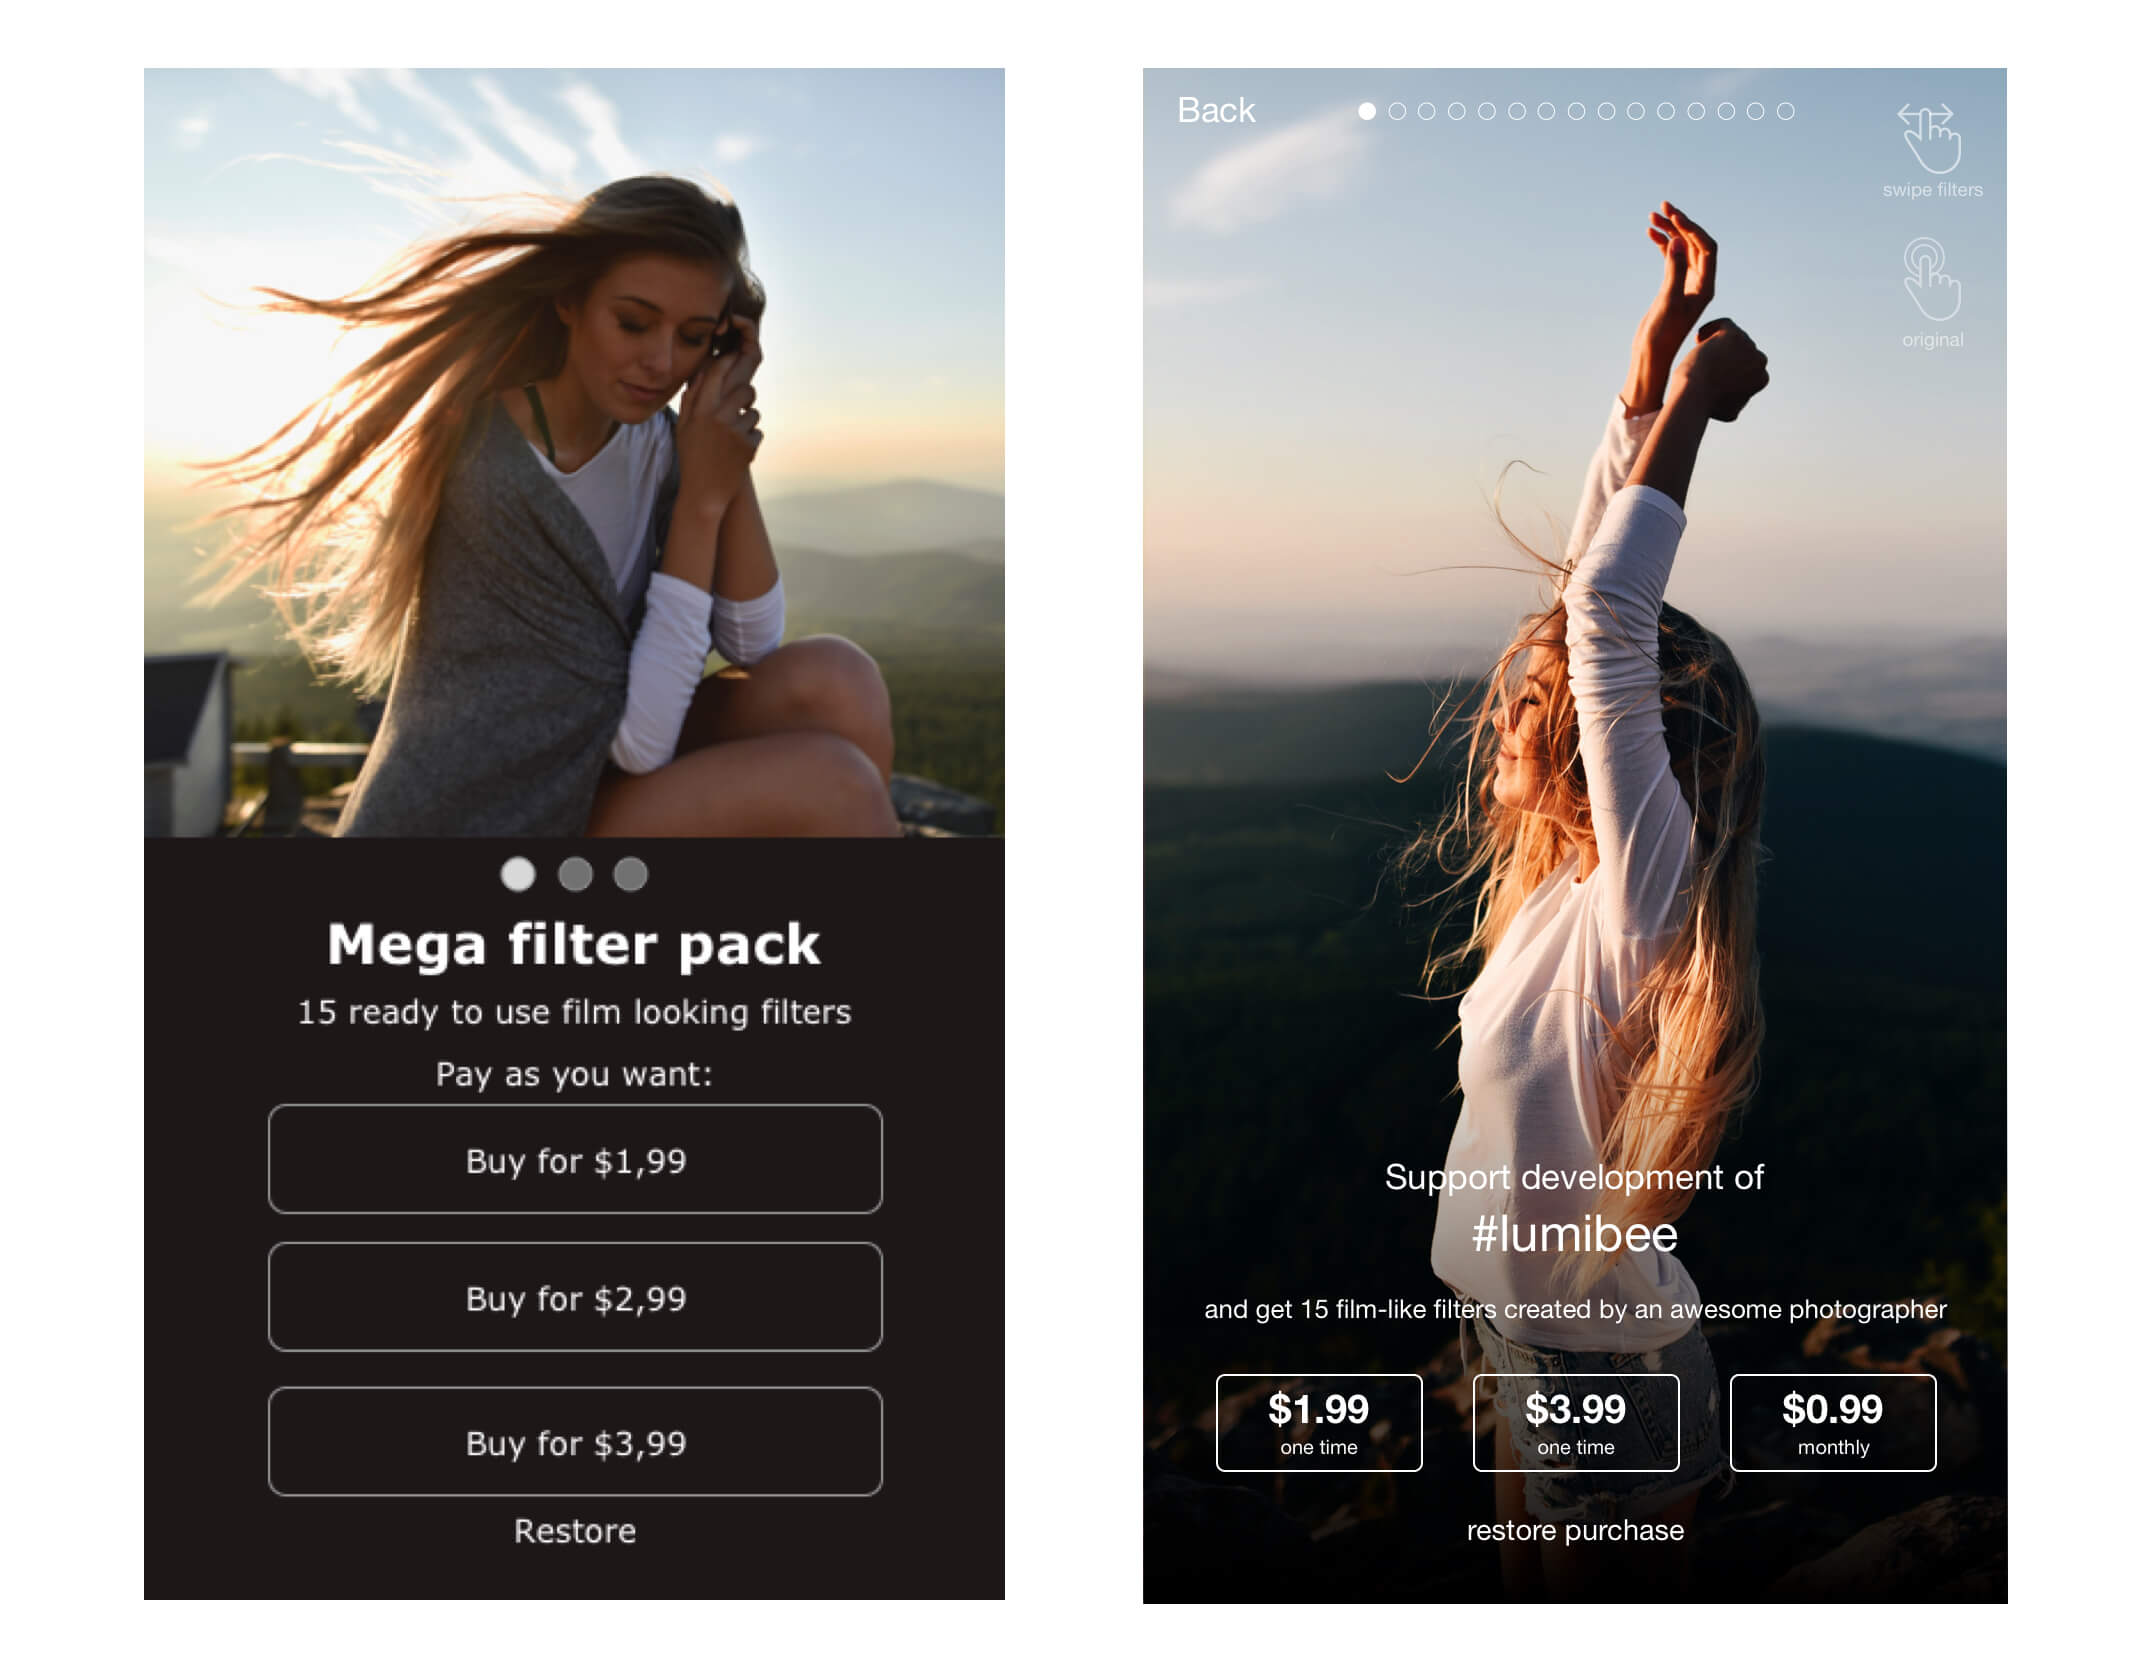
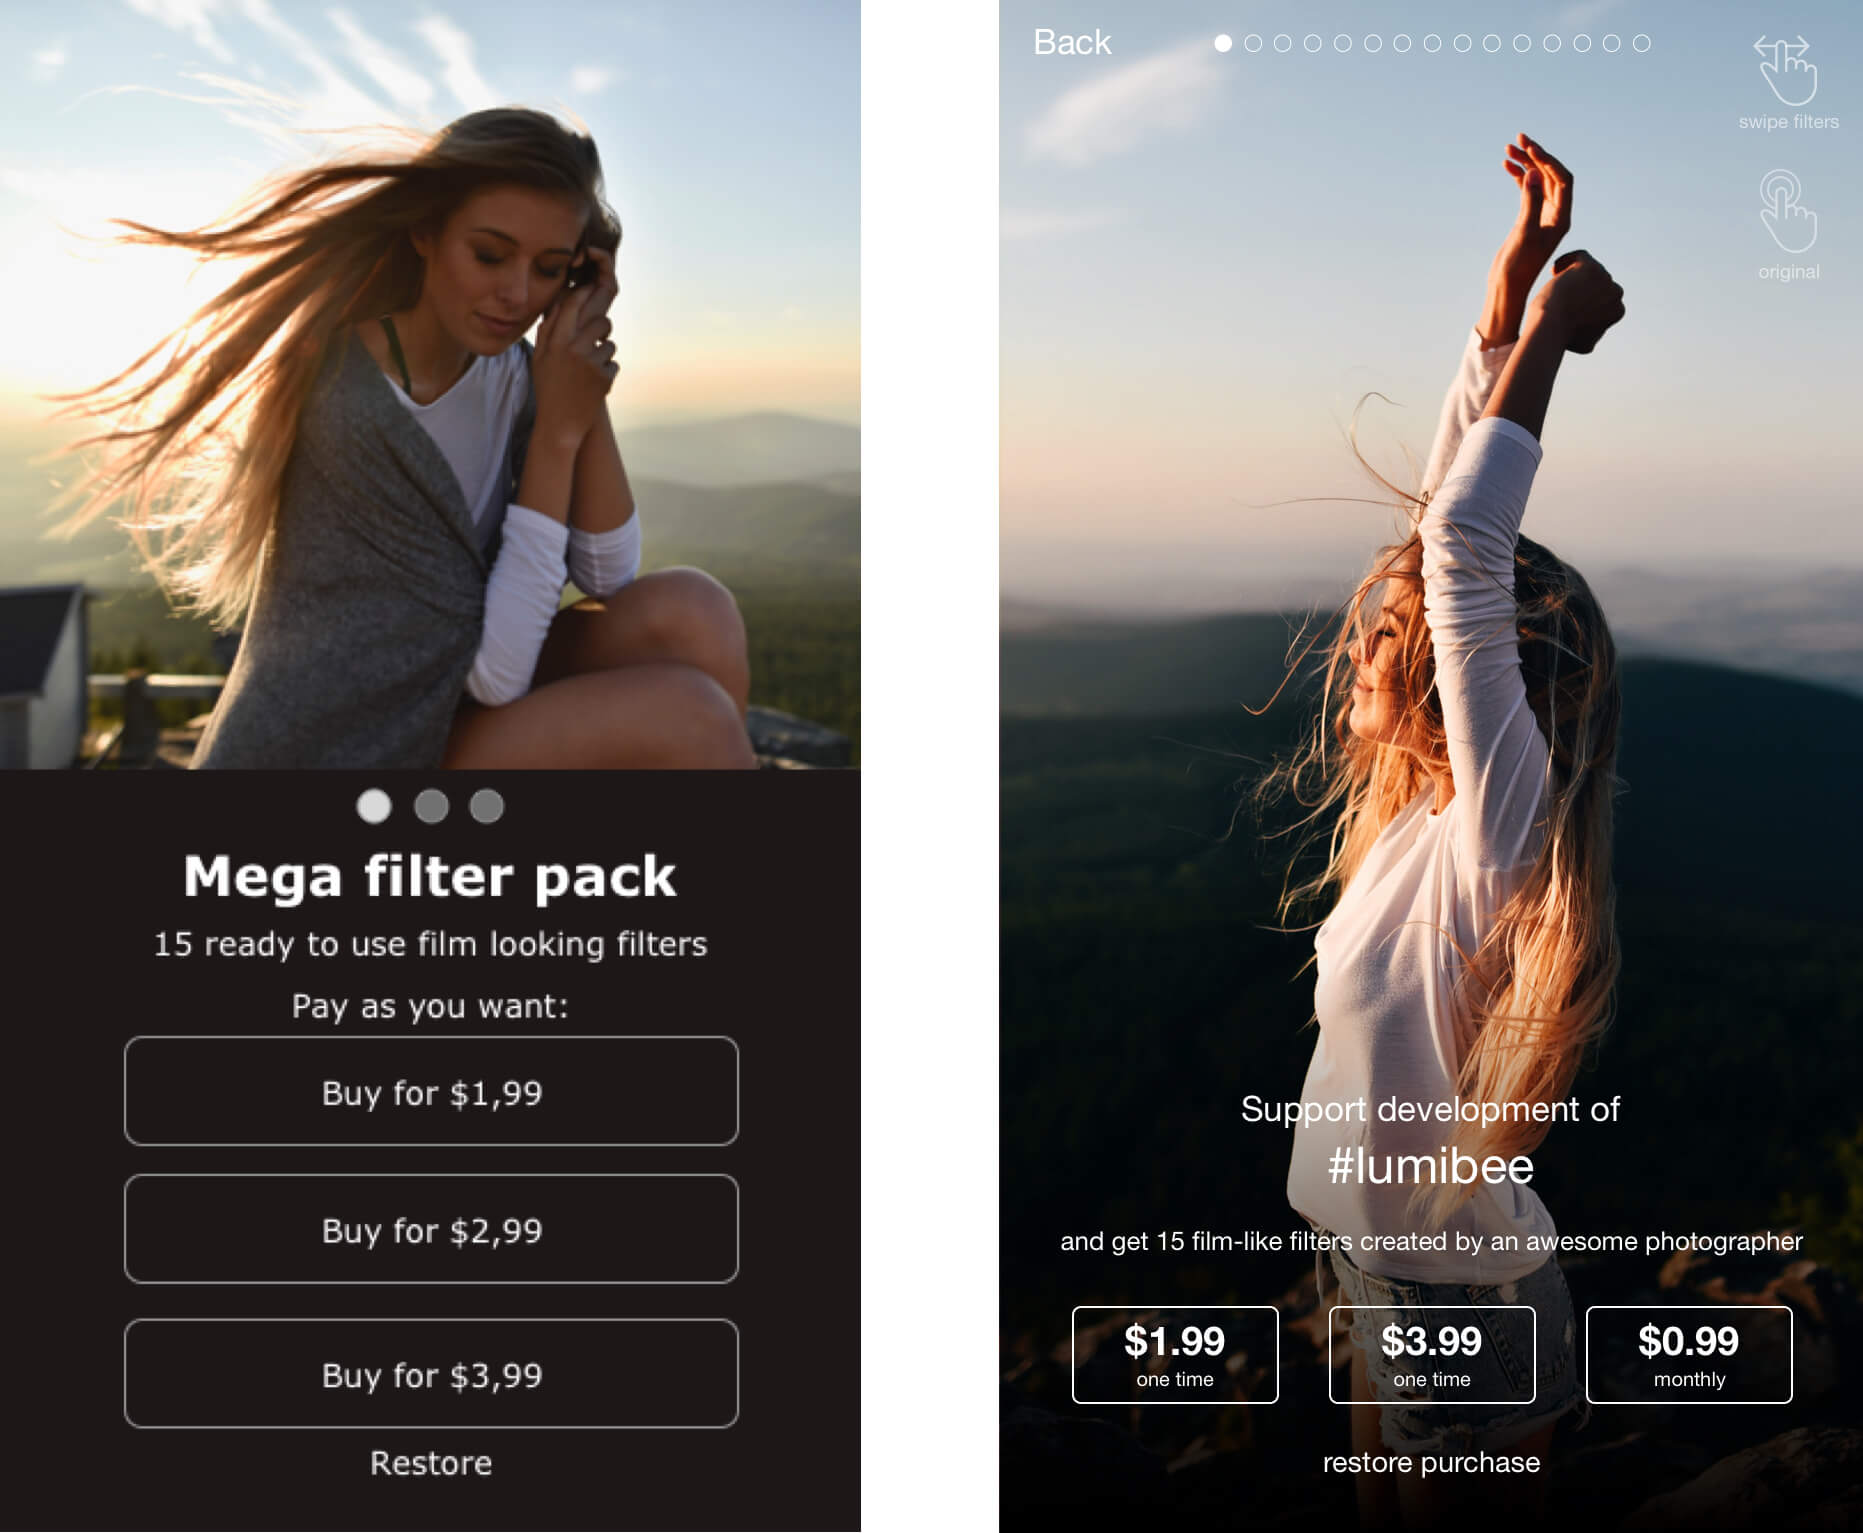
Tweak lumibee article (#11)

diff --git a/gatsby-config.js b/gatsby-config.js
@@ -58,6 +58,8 @@ module.exports = {
       resolve: `gatsby-plugin-google-analytics`,
       options: {
         trackingId: "UA-134171672-1",
+
+        
       },
     },
     {

diff --git a/content/blog/lumibee-zije/index.md b/content/blog/lumibee-zije/index.md
@@ -36,6 +36,7 @@ Vybrali jsme si druhou možnost s tím, že za to uživatelé dostanou nové fil
 
 To byla ta jednoduchá část. Teď je to potřeba převést nějak do kódu a iOS development je pakárna.
 Tomáš z toho ale byl tak nadšenej, že si nakreslil obrazovku pro in-appy. A jelikož bylo po obědě a mně se ještě nechtělo pracovat (rozuměj, nemohl jsem to nechat v tomhle stavu), tak jsem otevřel Sketch a překreslil to do finální podoby.
+
 ![Wireframe a mockup obrazovky](./wireframe-mockup.jpg)
 
 ## Návrh obrazovky:
@@ -56,9 +57,13 @@ Další možnost je obyčejnej carousel a rozhodovali jsme se, jestli tam dáme 
 
 Zavrhnuto. Moc práce.
 
-## A teď už to jen naprogramovat
+## Teď už to jen naprogramovat
 
 Tomáš původně vyhrožoval, že iOS vývoj ho zas tak moc nebaví a hotové to bude možná někdy na jaře. Ale nakonec ho to stálo jen 20 nocí a 61 commitů.
+
+## A takhle to vypadá
+
+![Finální podoba](./final.jpg)
 
 Verze 1.7 Lumibee je už v App Store a pokud ji ještě nemáte v iPhonu, tak rychle napravit! A že jste to přečetli, tak tady máte 5 redeem kódů (první přijde, první bere a je pak potřeba kliknout v appce na „restore purchases”):
 
@@ -66,4 +71,4 @@ Verze 1.7 Lumibee je už v App Store a pokud ji ještě nemáte v iPhonu, tak ry
 
 Článek časem doplním o nějaká čísla, jestli si to vůbec někdo koupil. Případně pokud někoho bude cokoliv zajímat ohledně Lumibee, tak to sem přidám.
 
-A samozřejmě sledujte [Lumibee](https://www.instagram.com/lumibeephoto/), sledujte [Radka](https://www.instagram.com/radek_kudlacek/) a podpořte vývoj Lumibee.
+A samozřejmě sledujte [Lumibee](https://www.instagram.com/lumibeephoto/), sledujte [Radka](https://www.instagram.com/radek_kudlacek/) a [podpořte vývoj Lumibee](https://itunes.apple.com/us/app/lumibee-fast-photo-editor/id1072221149?mt=8).
